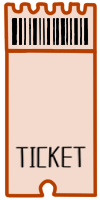
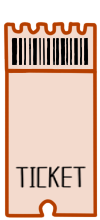
티켓 색 다양화, 티켓 등록 레이아웃 설정

diff --git a/client/src/components/Views/MoviePage/Detail/MovieRegisterPage.js b/client/src/components/Views/MoviePage/Detail/MovieRegisterPage.js
@@ -1,6 +1,6 @@
 import React, {useState} from 'react'
 import { useNavigate } from 'react-router-dom'
-import '../CSS/Detail.css'
+import '../MoviePage.css'
 import { useDispatch } from 'react-redux'
 import { registerBook} from '../../../../_actions/book_actions'
 import DatePicker from "react-datepicker";
@@ -8,7 +8,7 @@ import "react-datepicker/dist/react-datepicker.css";
 import { Descriptions, Rate } from 'antd';
 import { ko } from "date-fns/esm/locale";
 import auth from "../../../../hoc/auth"
-import SearchBookList from './SearchBookList'
+
 
 function BookRegisterPage() {
     const [modal,setModal] = useState(false)
@@ -58,9 +58,6 @@ function BookRegisterPage() {
       setPublisher(e.target.value)
     }
 
-    function onRadioHandler(e){
-      setStatus(e.target.value)
-    }
 
     function onReviewHandler(e){
       setReview(e.target.value)
@@ -69,17 +66,17 @@ function BookRegisterPage() {
 
   return (
     <div className='detailPage'>
-      <div className='search'>
+      {/* <div className='search'>
           <input className='bookName' type='text' placeholder='책 이름 ' onChange={onChangeHandler}/>
           <button className='searchBtn' onClick={()=>{setModal(!modal)}}>검색</button>
           {modal&&<SearchBookList setTitle={setTitle} setAuthor={setAuthor} setPublisher={setPublisher} setBookImg={setBookImg} title={bookName}/>}
-      </div>
+      </div> */}
       <div className='detailTitle'><input type='text' name='bookTitle' style={{'width': 'auto', 'textAlign' : 'center', border: '1px solid gray'}} defaultValue={title} onChange={onTitleHandler}/></div>
       <Rate onChange={setRate} value={rate}/>
       <div className='detailBody'>
         <div className='detailBtnZone'><button className='detailBtn' onClick={onSaveHandler}>저장</button></div>
         <div className='detailInfo'>
-          <img className="bookImage" alt="book cover" src={bookImg} />
+          <img className="bookImage" alt="Movie Poster" src={bookImg} />
           <div className="detailTable">
           <Descriptions column={2} labelStyle={{
             'border' : 'none',
@@ -98,16 +95,10 @@ function BookRegisterPage() {
             'border' : 'none',
             "margin" : "8px 0"
           }}>
-            <Descriptions.Item label="저자" span={1}><input type='text' name='bookAuthor' style={{'width':'100%', border:'None', borderBottom: '1px solid gray'}} defaultValue={author} onChange={onAuthorHandler}/></Descriptions.Item>
-            <Descriptions.Item label="출판사" span={1}><input type='text' name='bookPublisher' style={{'width':'100%', border: '1px solid gray'}} defaultValue={publisher} onChange={onPublisherHandler}/></Descriptions.Item>
-            <Descriptions.Item label="상태" span={2}>
-              <input id="0" value= "0" name="status" type="radio" checked = {status === '0'} style={{'fontSize': '20px'}} onChange={onRadioHandler}/> <label style={{'padding': '0 15px 0 2px'}}>읽기 완료</label>
-              <input id="1" value="1" name="status" type="radio" checked = {status === '1'} style={{'fontSize': '20px'}} onChange={onRadioHandler}/> <label style={{'padding': '0 15px 0 2px'}}> 읽는 중</label>
-              <input id="2" value="2" name="status" type="radio" checked = {status === '2'} style={{'fontSize': '20px'}} onChange={onRadioHandler}/> <label style={{'padding': '0 15px 0 2px'}}> 읽을 예정</label>
-            </Descriptions.Item>
-            <Descriptions.Item label="시작 날짜" span={1}><DatePicker locale={ko} dateFormat="yyyy-MM-dd" selected= {startDate} onChange={(date) => setStartDate(date)} /></Descriptions.Item>
-            <Descriptions.Item label="끝 날짜" span={1}><DatePicker locale={ko} dateFormat="yyyy-MM-dd" selected= {endDate} onChange={(date) => setEndDate(date)} /></Descriptions.Item>
+            <Descriptions.Item label="감독" span={1}><input type='text' name='movieDirector' style={{'width':'100%', border: '1px solid gray'}} defaultValue={author} onChange={onAuthorHandler}/></Descriptions.Item>
+            <Descriptions.Item label="관람 날짜" span={2}><DatePicker locale={ko} dateFormat="yyyy-MM-dd" selected= {startDate} onChange={(date) => setStartDate(date)} /></Descriptions.Item>
             <Descriptions.Item label="소감문" span={2} labelStyle={{ "alignItems" : "center", "justifyContent" : "center"}}><textarea name='bookReview' style={{'width':'100%', 'maxHeight' : '200px'}} defaultValue={review} onChange={onReviewHandler}/></Descriptions.Item>
+            <Descriptions.Item label="출연진" span={2}><input type='text' name='movieActor' style={{'width':'100%', border: '1px solid gray'}} defaultValue={publisher} onChange={onPublisherHandler}/></Descriptions.Item>
           </Descriptions>
         </div>
       </div>

diff --git a/client/src/components/Views/MoviePage/MoviePage.css b/client/src/components/Views/MoviePage/MoviePage.css
@@ -43,12 +43,93 @@
 }
 
 .movieOnShelf:hover{
-    height: 88px;
-    width: 44px;
+    height: 80px;
+    width: 40px;
     bottom: 25px;
     background: url(../../img/ticketAfter.png) no-repeat center;
     background-size: contain;
 }
+
+.movieOnShelf2{
+    position: absolute;
+    height: 80px;
+    width: 40px;
+    bottom: 25px;
+    background: url(../../img/ticket2.png) no-repeat center;
+    background-size: contain;
+    cursor: pointer;
+    border-radius: 3px;
+    transition-duration: 0.2s;
+}
+
+.movieOnShelf2:hover{
+    height: 80px;
+    width: 40px;
+    bottom: 25px;
+    background: url(../../img/ticketAfter2.png) no-repeat center;
+    background-size: contain;
+}
+
+.movieOnShelf3{
+    position: absolute;
+    height: 80px;
+    width: 40px;
+    bottom: 25px;
+    background: url(../../img/ticket3.png) no-repeat center;
+    background-size: contain;
+    cursor: pointer;
+    border-radius: 3px;
+    transition-duration: 0.2s;
+}
+
+.movieOnShelf3:hover{
+    height: 80px;
+    width: 40px;
+    bottom: 25px;
+    background: url(../../img/ticketAfter3.png) no-repeat center;
+    background-size: contain;
+}
+
+.movieOnShelf4{
+    position: absolute;
+    height: 80px;
+    width: 40px;
+    bottom: 25px;
+    background: url(../../img/ticket4.png) no-repeat center;
+    background-size: contain;
+    cursor: pointer;
+    border-radius: 3px;
+    transition-duration: 0.2s;
+}
+
+.movieOnShelf4:hover{
+    height: 80px;
+    width: 40px;
+    bottom: 25px;
+    background: url(../../img/ticketAfter4.png) no-repeat center;
+    background-size: contain;
+}
+
+.movieOnShelf5{
+    position: absolute;
+    height: 80px;
+    width: 40px;
+    bottom: 25px;
+    background: url(../../img/ticket5.png) no-repeat center;
+    background-size: contain;
+    cursor: pointer;
+    border-radius: 3px;
+    transition-duration: 0.2s;
+}
+
+.movieOnShelf5:hover{
+    height: 80px;
+    width: 40px;
+    bottom: 25px;
+    background: url(../../img/ticketAfter5.png) no-repeat center;
+    background-size: contain;
+}
+
 
 .movieList{
     width: 100%;

diff --git a/client/src/components/Views/MoviePage/MoviePage/MovieShelf.js b/client/src/components/Views/MoviePage/MoviePage/MovieShelf.js
@@ -27,10 +27,10 @@ function MovieShelf() {
   //   return [rgb,borderRgb];
   // }
 
-  // function getRand(min, max) {
-  //   if (min >= max) return false;
-  //   return ~~(Math.random() * (max - min + 1)) + min;
-  // };
+  function getRand(min, max) {
+    if (min >= max) return false;
+    return ~~(Math.random() * (max - min + 1)) + min;
+  };
 
   function onClickHandler(MovieId){
     navigate(`/movie/${MovieId}`)
@@ -43,17 +43,18 @@ function MovieShelf() {
         const movieShelfPage = document.querySelector('.movieShelfPage')
         const movieShelfList = response.payload.movies
         const movieNum = response.payload.movies.length
-        for(let j = 0; j < parseInt(movieNum/20)+1; j++){
-          if(movieNum%20===0 && j === parseInt(movieNum/20)) break;
+        const ticketList = ['movieOnShelf','movieOnShelf2','movieOnShelf3','movieOnShelf4','movieOnShelf5']
+        for(let j = 0; j < parseInt(movieNum/10)+1; j++){
+          if(movieNum%10===0 && j === parseInt(movieNum/10)) break;
           const shelf = document.createElement('div');
           shelf.classList.add('movieShelf');
           movieShelfPage.appendChild(shelf);
-          for(let i = j*20; i < movieNum && i < (j+1)*20; i++){
+          for(let i = j*10; i < movieNum && i < (j+1)*10; i++){
 
             const one = document.createElement('div');
-            one.classList.add('movieOnShelf');
+            one.classList.add(ticketList[getRand(0,4)]);
             const num =Math.random()
-            one.style.left= (i-j*20)*20 + 60 + parseInt((i-j*20)/5)*11 +'px';
+            one.style.left= (i-j*10)*40 + 60 +'px';
             one.title = movieShelfList[i].title
             one.addEventListener('click',()=>onClickHandler(movieShelfList[i]._id))
             shelf.appendChild(one);

diff --git a/client/src/components/App.js b/client/src/components/App.js
@@ -16,6 +16,7 @@ import MoviePage from "./Views/MoviePage/MoviePage/MoviePage";
 import Detail from "./Views/BookPage/Detail/Detail"
 import EditPage from "./Views/BookPage/Detail/EditPage";
 import PopUp from "./Views/PopUp/PopUp";
+import MovieRegisterPage from "./Views/MoviePage/Detail/MovieRegisterPage";
 
 export default function App() {
   return (
@@ -32,6 +33,7 @@ export default function App() {
           <Route className='page' path="/book/:bookId/edit" element={<EditPage/>}/>
           <Route className='page' path="/book/register" element={<BookRegisterPage/>}/>
           <Route className='page' path="/popup" element={<PopUp/>}/>
+          <Route className='page' path="/movie/register" element={<MovieRegisterPage/>}/>
         </Routes>
       </div>
     </Router>

diff --git a/client/src/components/Views/MoviePage/MoviePage/MoviePage.js b/client/src/components/Views/MoviePage/MoviePage/MoviePage.js
@@ -3,14 +3,22 @@ import auth from '../../../../hoc/auth'
 import MovieList from './MovieList'
 import '../MoviePage.css'
 import MovieShelf from './MovieShelf'
+import { useNavigate } from 'react-router-dom'
 
 function MoviePage() {
+  const navigate = useNavigate();
+
+  function onClickHandler(){
+    navigate('/movie/register');
+  }
+
   return (
     <div className='moviePage'>
       <MovieShelf/>
+      <div className='detailBtnZone'><button className='detailBtn bookPageRegister' onClick={onClickHandler}>등록</button></div>
       <MovieList/>
     </div>
   )
 }
 
-export default auth(MoviePage,null)
+export default auth(MoviePage,true)

diff --git a/client/src/components/Views/Nav/Nav.js b/client/src/components/Views/Nav/Nav.js
@@ -52,7 +52,7 @@ function Nav() {
 
     return (
         <nav>
-            <Link className="navLi" to='/'>책과 영화나무</Link>
+            <Link className="navLi" to='/'>책과 꽃나무</Link>
             <Link className="navLi" to='/book'>나만의 책장</Link>
             <Link className="navLi" to='/movie'>나만의 티켓</Link>
             <div id="btnZone">

diff --git a/client/public/index.html b/client/public/index.html
@@ -24,7 +24,7 @@
       work correctly both with client-side routing and a non-root public URL.
       Learn how to configure a non-root public URL by running `npm run build`.
     -->
-    <title>책과 영화나무</title>
+    <title>책과 꽃나무</title>
   </head>
   <body>
     <noscript>You need to enable JavaScript to run this app.</noscript>
